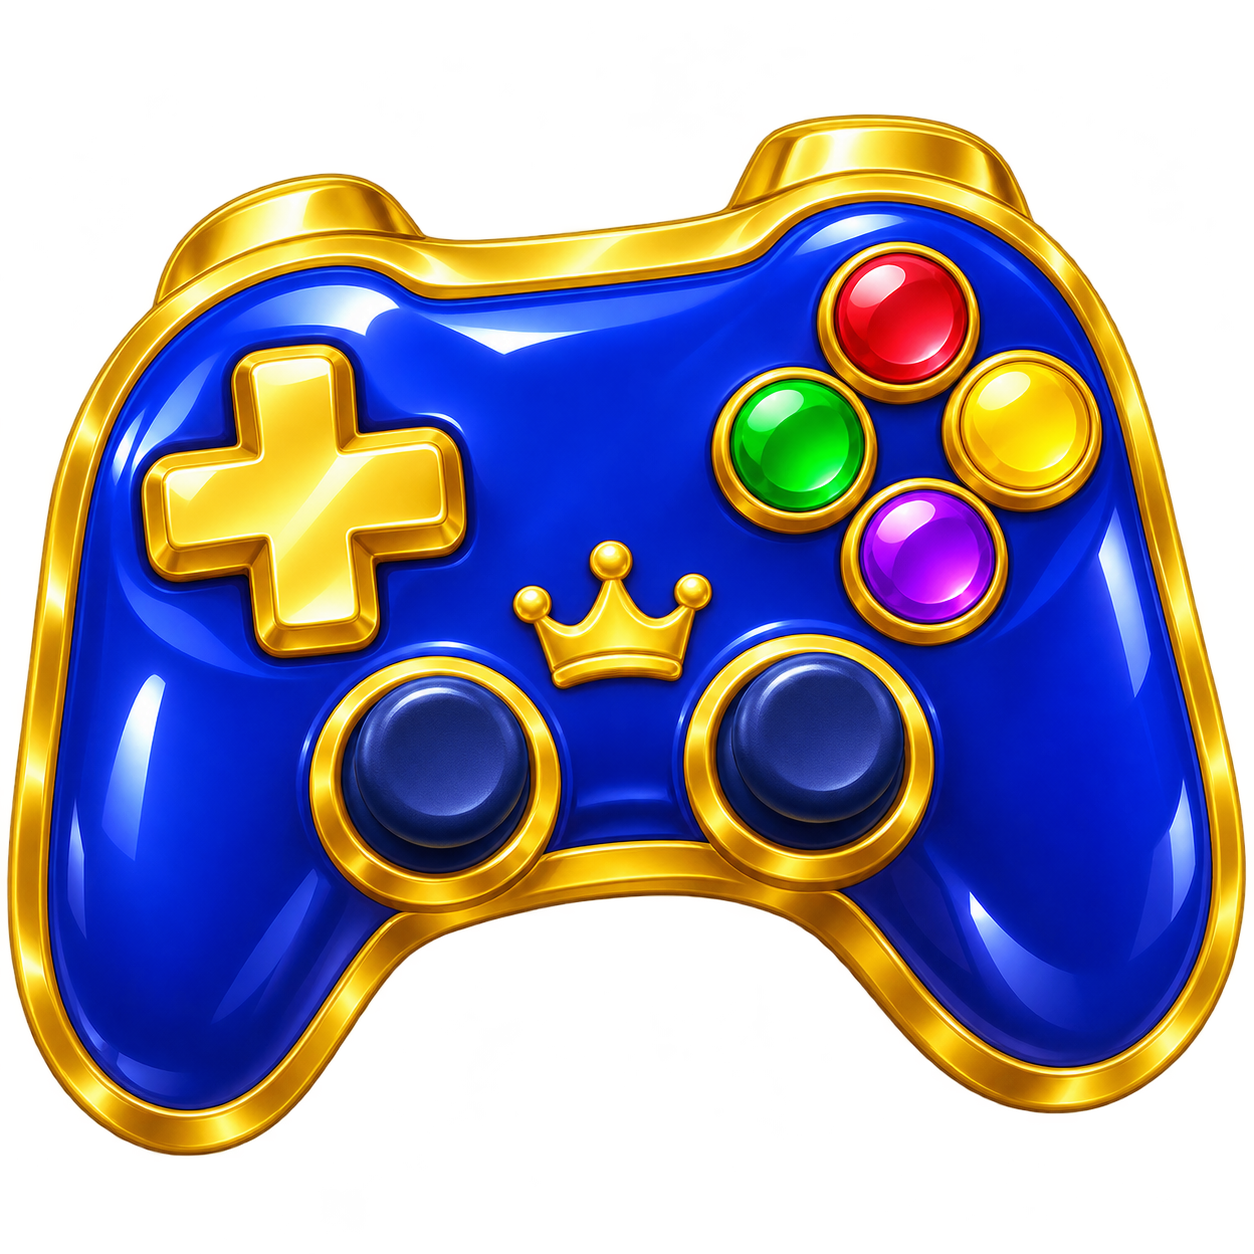
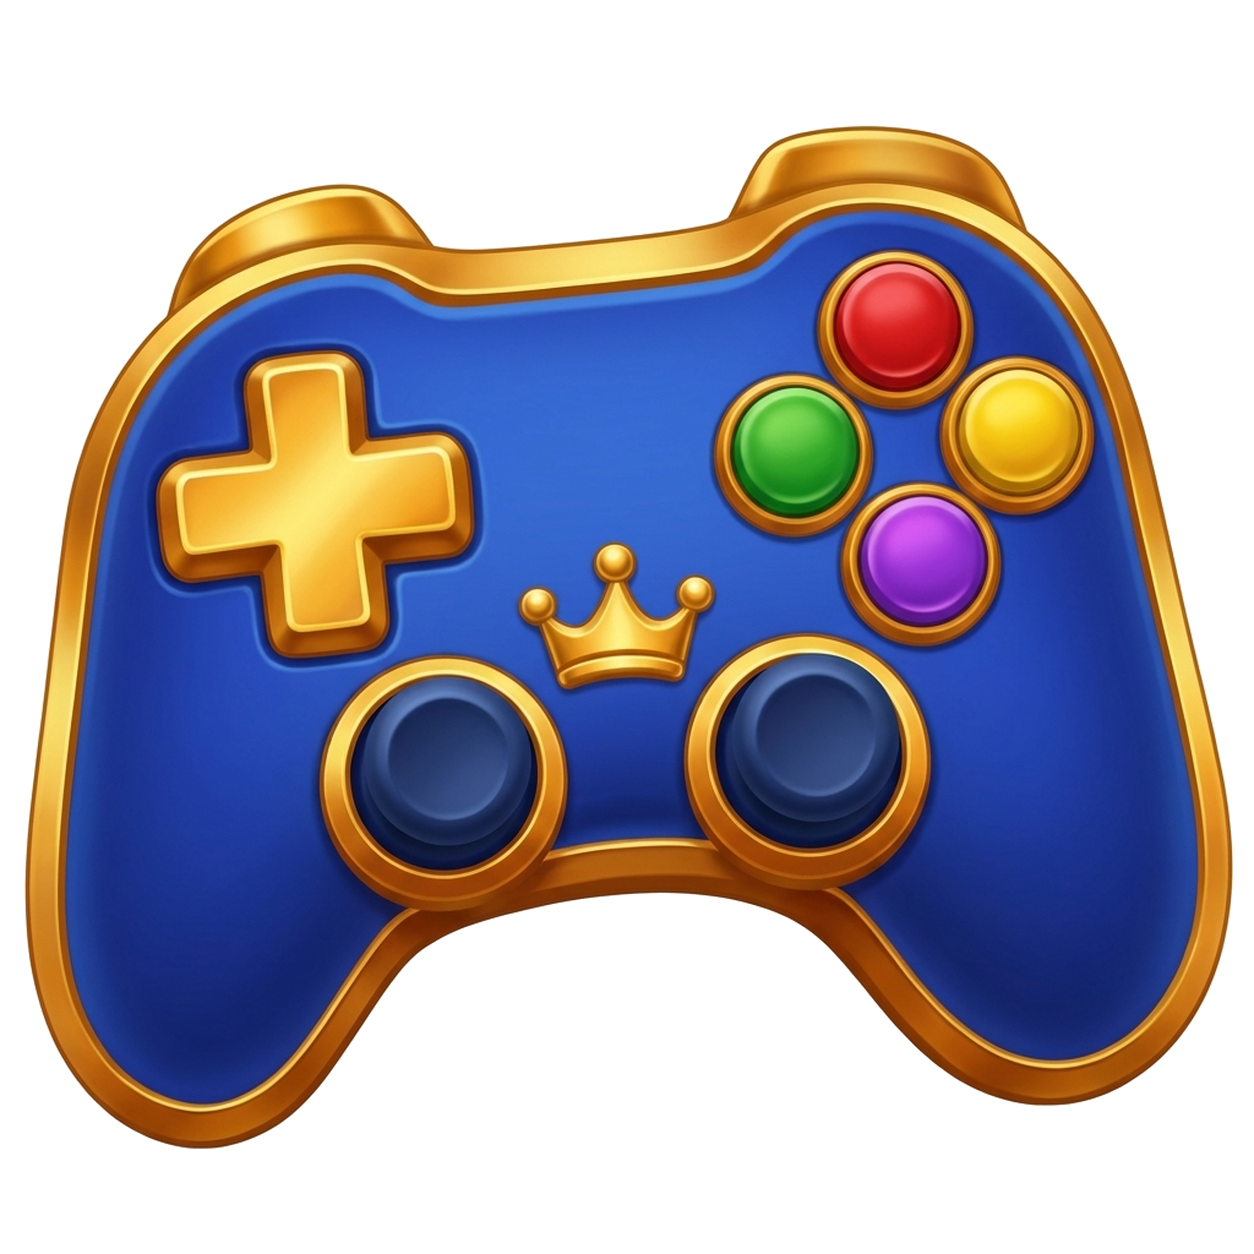
art(circus): remasterizar símbolo do controle com iluminação única e acabamento acetinado

diff --git a/docs/HANDOFF.md b/docs/HANDOFF.md
@@ -1,3 +1,11 @@
+## Controle de videogame v2 — iluminação única e acabamento no padrão do jogo, 13/11/2026 (Antigravity)
+
+- **Feedback do dono:** o asset anterior (`controller-symbol-v1`) tinha muitos pontos de iluminação (faixas brancas de reflexo tipo plástico molhado na carcaça azul, brilhos circulares brancos nos botões e ~10 focos especulares no aro dourado) e não seguia o padrão visual do jogo.
+- **Solução aplicada:** nova geração via `generate_image` usando `sym-crown.png`, `sym-drum.png` e a v1 como referências diretas. Removidos os reflexos brancos especulares dispersos e adotada **iluminação única superior suave**, carcaça azul royal e botões com acabamento **fosco/acetinado aveludado** e aro em **ouro quente acetinado** idêntico aos símbolos aprovados dos rolos.
+- **Arquivos atualizados:** `assets/machine/controller-symbol-v1.png` (`1254×1254` RGBA, recorte com descontaminação de borda sem halo) e `assets/machine/controller-symbol-v1.webp` (`560×560` WebP lossless). Documentados em `guidelines/asset-pipeline.md`, `assets/machine/README.md` e `docs/todo.json` (`t-controle-asset`).
+- **Conferência visual:** inspecionado sobre fundo escuro (`#240a42`) e nos rolos do Fortune Circus em `390×844` ao lado da coroa, diamante, tenda, cetro, ingresso e Happeach.
+- **Prévia para teste:** `https://ric-lab.github.io/King-Rico/circus/?demo=controller`
+
 ## Controle aprovado aplicado à interface — 13/11/2026 (Codex)
 
 Asset `controller-symbol-v1.webp` substitui o SVG provisório no bloco de
@@ -6,6 +14,7 @@ em navegador 390×844: visível, sem erros JS ou assets faltantes. Build de
 prévia passou. Não muda sorteio/rolo/economia; ativação do evento Penalty
 continua tarefa separada. Próximo passo: avaliar o encaixe no jogo; consultar
 Actions deste commit para o resultado da publicação da prévia.
+
 
 ## Controle de videogame — proposta de asset, 13/11/2026 (Codex)
 

diff --git a/guidelines/asset-pipeline.md b/guidelines/asset-pipeline.md
@@ -461,3 +461,18 @@ controles legíveis e pequena coroa. Fonte PNG e export WebP lossless em
 assets/machine/controller-symbol-v1.*. Arte e exportação inspecionadas.
 Sem Meshy; custo/créditos não informados pela ferramenta. Checkpoint de arte,
 sem publicação nem mudança de matemática. Aguardando avaliação do dono.
+
+### 2026-11-13 — controle de videogame v2 (ajuste de iluminação e acabamento ao padrão do jogo)
+Feedback do dono: a v1 tinha pontos de iluminação demais (reflexos brancos de
+plástico molhado na carcaça azul, bolhas brancas nos botões e múltiplos focos
+especulares no aro dourado) e fugia do padrão visual do jogo. Uma geração via
+`generate_image` (Gemini) com `sym-crown.png`, `sym-drum.png` e a v1 como
+referências diretas: iluminação única suave vinda de cima, carcaça azul royal e
+botões com acabamento fosco/acetinado aveludado (sem faixas brancas de reflexo)
+e aro dourado acetinado quente coerente com os símbolos aprovados dos rolos.
+Recorte alpha com descontaminação de borda conferido sobre fundo escuro e em
+`390×844` nos rolos do Fortune Circus. Atualizados `assets/machine/controller-symbol-v1.png`
+(1254×1254 RGBA) e `assets/machine/controller-symbol-v1.webp` (560×560 WebP lossless).
+Sem Meshy; custo monetário não exposto pela ferramenta. Publicado na prévia para
+avaliação do dono.
+

diff --git a/assets/machine/README.md b/assets/machine/README.md
@@ -633,3 +633,14 @@ Ray (14). A passagem é decorativa; os três símbolos finais de cada coluna vê
 sempre do recibo. Marcadores data-payline 0–7 têm camada 6 acima das células.
 Voo de moedas resolve origem/destino na geometria atual, nunca por uma tabela
 parcial de cinco linhas.
+
+### Símbolo de controle (ID 15) — 13/11/2026
+
+`controller-symbol-v1.png` (1254 × 1254, RGBA) e `controller-symbol-v1.webp`
+(560 × 560, WebP lossless): símbolo especial do controle nos rolos (`ID 15`,
+`.is-controller` / `[data-park-controller="true"]`), na tabela de pagamentos e
+no modal que abre o minigame (`?demo=controller`). Remasterizado após feedback
+do dono para eliminar múltiplos pontos de brilho especular e adotar iluminação
+única superior suave, azul royal acetinado/fosco e ouro quente no mesmo padrão
+de `sym-crown.png`, `sym-drum.png` e `sym-tent.png`.
+
